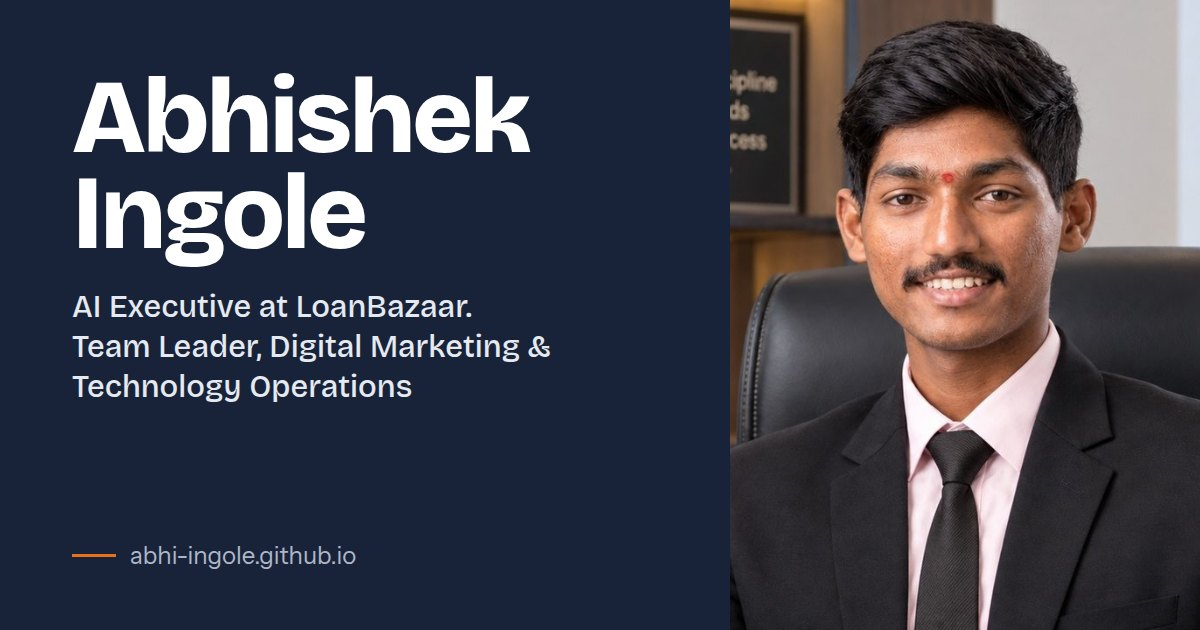
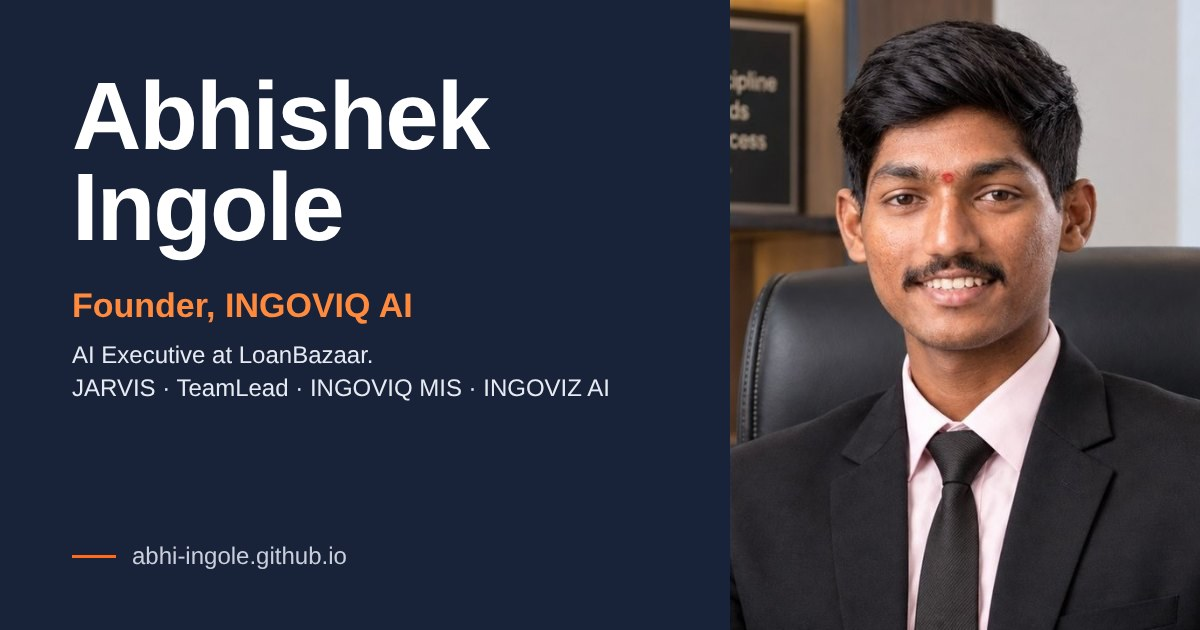
Founder of INGOVIQ AI: TeamLead product, company section with mission, स्वप्नातला कवी book section, updated titles, share image and structured data
Claude-Session: https://claude.ai/code/session_01RaJcPgbsKkPXd4THv1C4LU

diff --git a/index.html b/index.html
@@ -3,26 +3,26 @@
 <head>
 <meta charset="utf-8">
 <meta name="viewport" content="width=device-width, initial-scale=1">
-<title>Abhishek Ingole – AI Executive · Data &amp; BI | LoanBazaar, Mumbai</title>
-<meta name="description" content="Abhishek Ingole is an AI Executive (Data & BI) at LoanBazaar, Mumbai. He turns business data into decisions with Excel, SQL, Power BI and Python, and builds INGOVIZ AI, Smart MIS and JARVIS by INGOVIQ AI.">
+<title>Abhishek Ingole – Founder, INGOVIQ AI · AI Executive, Data &amp; BI | Mumbai</title>
+<meta name="description" content="Abhishek Ingole is the founder of INGOVIQ AI and an AI Executive (Data & BI) at LoanBazaar, Mumbai. He turns business data into decisions and builds JARVIS, TeamLead, INGOVIQ MIS and INGOVIZ AI.">
 <meta name="author" content="Abhishek Ingole">
 <link rel="canonical" href="https://abhi-ingole.github.io/">
 <meta name="robots" content="index, follow, max-image-preview:large">
 <meta name="google-site-verification" content="E_JPNv1pvanh8rm4-psqdiZxdUMXsIJe8ol7lKGQWh4">
 
 <meta property="og:type" content="profile">
-<meta property="og:title" content="Abhishek Ingole – AI Executive · Data & BI">
-<meta property="og:description" content="Business data to decisions with Excel, SQL, Power BI and Python. Builder of INGOVIZ AI, Smart MIS and JARVIS by INGOVIQ AI. AI Executive at LoanBazaar, Mumbai.">
+<meta property="og:title" content="Abhishek Ingole – Founder, INGOVIQ AI · AI Executive, Data & BI">
+<meta property="og:description" content="Founder of INGOVIQ AI: JARVIS, TeamLead, INGOVIQ MIS and INGOVIZ AI. AI Executive (Data & BI) at LoanBazaar, Mumbai, and author of the Marathi poetry book स्वप्नातला कवी.">
 <meta property="og:url" content="https://abhi-ingole.github.io/">
 <meta property="og:image" content="https://abhi-ingole.github.io/og-image.jpg">
 <meta property="og:image:width" content="1200">
 <meta property="og:image:height" content="630">
-<meta property="og:image:alt" content="Abhishek Ingole, AI Executive at LoanBazaar">
+<meta property="og:image:alt" content="Abhishek Ingole, Founder of INGOVIQ AI">
 <meta property="profile:first_name" content="Abhishek">
 <meta property="profile:last_name" content="Ingole">
 <meta name="twitter:card" content="summary_large_image">
-<meta name="twitter:title" content="Abhishek Ingole – AI Executive · Data & BI">
-<meta name="twitter:description" content="Business data to decisions with Excel, SQL, Power BI and Python. Builder of INGOVIZ AI, Smart MIS and JARVIS by INGOVIQ AI.">
+<meta name="twitter:title" content="Abhishek Ingole – Founder, INGOVIQ AI · AI Executive, Data & BI">
+<meta name="twitter:description" content="Founder of INGOVIQ AI: JARVIS, TeamLead, INGOVIQ MIS and INGOVIZ AI. Data In. Decisions Out.">
 <meta name="twitter:image" content="https://abhi-ingole.github.io/og-image.jpg">
 <link rel="icon" type="image/png" href="favicon.png">
 <link rel="apple-touch-icon" href="apple-touch-icon.png">
@@ -33,8 +33,8 @@
   "@context": "https://schema.org",
   "@type": "ProfilePage",
   "url": "https://abhi-ingole.github.io/",
-  "name": "Abhishek Ingole – AI Executive · Data & BI",
-  "dateModified": "2026-11-19",
+  "name": "Abhishek Ingole – Founder, INGOVIQ AI · AI Executive, Data & BI",
+  "dateModified": "2026-11-21",
   "mainEntity": {
     "@type": "Person",
     "@id": "https://abhi-ingole.github.io/#abhishek-ingole",
@@ -44,15 +44,17 @@
     "url": "https://abhi-ingole.github.io/",
     "image": "https://abhi-ingole.github.io/abhishek-ingole.jpg",
     "email": "mailto:abhishekingole81@gmail.com",
-    "jobTitle": "AI Executive · Data & BI",
-    "description": "AI Executive (Data & BI) at LoanBazaar and Team Leader of the Digital Marketing & Technology Operations team. Turns business data into decisions with Excel, SQL, Power BI and Python; builds INGOVIZ AI, Smart MIS and JARVIS by INGOVIQ AI.",
+    "jobTitle": ["Founder, INGOVIQ AI", "AI Executive · Data & BI"],
+    "description": "AI Executive (Data & BI) at LoanBazaar and Team Leader of the Digital Marketing & Technology Operations team. Turns business data into decisions with Excel, SQL, Power BI and Python; founder of INGOVIQ AI, which builds JARVIS, TeamLead, INGOVIQ MIS and INGOVIZ AI. Author of the Marathi poetry book स्वप्नातला कवी.",
     "worksFor": {
       "@type": "Organization",
       "name": "LoanBazaar",
       "legalName": "Secure Distribution Venture Pvt. Ltd.",
       "url": "https://loanbazaaronline.com"
     },
+    "founder": { "@type": "Organization", "@id": "https://ingoviq.vercel.app/#org", "name": "INGOVIQ AI", "url": "https://ingoviq.vercel.app/", "email": "ingoviqai@gmail.com", "slogan": "Data In. Decisions Out." },
     "hasOccupation": [
+      { "@type": "Occupation", "name": "Founder, INGOVIQ AI" },
       { "@type": "Occupation", "name": "AI Executive", "occupationLocation": { "@type": "City", "name": "Mumbai" } },
       { "@type": "Occupation", "name": "Team Leader, Digital Marketing & Technology Operations" }
     ],
@@ -63,10 +65,34 @@
     "knowsAbout": ["Business intelligence", "Data analysis", "Excel", "SQL", "MySQL", "Power BI", "DAX", "Power Query", "Python", "MIS reporting", "Credit analysis", "AI automation", "n8n", "Workflow automation", "Marketing automation", "Dashboards", "Android development", "WhatsApp marketing", "Email marketing", "Web development", "Software testing"],
     "sameAs": [
       "https://www.linkedin.com/in/abhishek-ingole-90b2913a8",
-      "https://github.com/Abhi-ingole"
+      "https://github.com/Abhi-ingole",
+      "https://ingoviq.vercel.app/"
     ]
   },
   "hasPart": [
+    {
+      "@type": "SoftwareApplication",
+      "name": "TeamLead",
+      "alternateName": "TeamLead by INGOVIQ",
+      "brand": { "@type": "Brand", "name": "INGOVIQ AI" },
+      "applicationCategory": "BusinessApplication",
+      "operatingSystem": "Web browser",
+      "url": "https://teamlead-ingoviq.netlify.app/",
+      "image": "https://abhi-ingole.github.io/images/teamlead-home.webp",
+      "description": "AI team leader for small sales, marketing and outreach teams: plans each person's day at 9:30, checks the real work against the lead list, and scores the day at 7 PM with feedback and alerts.",
+      "author": { "@id": "https://abhi-ingole.github.io/#abhishek-ingole" }
+    },
+    {
+      "@type": "Book",
+      "name": "स्वप्नातला कवी",
+      "alternateName": "Swapnatla Kavi",
+      "inLanguage": "mr",
+      "genre": "Poetry",
+      "author": { "@id": "https://abhi-ingole.github.io/#abhishek-ingole" },
+      "image": "https://abhi-ingole.github.io/images/swapnatla-kavi-cover.jpg",
+      "url": "https://swapnatala-kavi.netlify.app/",
+      "sameAs": "https://www.amazon.in/dp/B0HSJ8YRNN"
+    },
     {
       "@type": "SoftwareApplication",
       "name": "INGOVIZ AI",
@@ -300,31 +326,42 @@ footer{padding:36px 0 48px;color:var(--slate);font-size:14px;display:flex;justif
   section{margin-bottom:72px}
   .mail{font-size:20px}
 }
+.company{display:grid;grid-template-columns:minmax(0,1fr) minmax(0,1.1fr);gap:48px;align-items:center}
+.company .co-tag{font-family:var(--display);font-weight:700;font-size:20px;margin:-6px 0 16px;color:var(--signal)}
+.company .mission{margin:0 0 18px;padding:4px 0 4px 18px;border-left:4px solid var(--signal);font-style:italic;font-size:18px;line-height:1.6;max-width:52ch}
+.company p{color:var(--slate);max-width:56ch}
+.co-shot{display:block;text-decoration:none;transition:transform .2s}
+.co-shot:hover{transform:translateY(-4px)}
+.book{display:grid;grid-template-columns:160px minmax(0,1fr);gap:36px;align-items:center;background:var(--paper);border:1px solid var(--line);border-radius:24px;padding:36px}
+.book .cover img{width:160px;height:auto;display:block;border-radius:4px 10px 10px 4px;box-shadow:0 14px 30px rgba(0,0,0,.2)}
+.book p{color:var(--slate);max-width:56ch}
+@media (max-width:820px){.company{grid-template-columns:minmax(0,1fr)}.book{grid-template-columns:minmax(0,1fr);padding:26px}.book .cover img{width:130px}}
 </style>
 </head>
 <body>
 <div class="wrap">
   <header class="top">
     <b>Abhishek Ingole</b>
-    <nav aria-label="Sections"><a href="#products">Products</a><a href="#data-bi">Data &amp; BI</a><a href="#about">About</a><a href="#work">Work</a><a href="#experience">Experience</a><a href="#recognition">Recognition</a><a href="#contact">Contact</a></nav>
+    <nav aria-label="Sections"><a href="#products">Products</a><a href="#ingoviq">INGOVIQ AI</a><a href="#data-bi">Data &amp; BI</a><a href="#about">About</a><a href="#work">Work</a><a href="#experience">Experience</a><a href="#recognition">Recognition</a><a href="#book">Book</a><a href="#contact">Contact</a></nav>
   </header>
 
   <main>
     <div class="hero">
       <div>
-        <div class="status"><i aria-hidden="true"></i>Working at LoanBazaar, Mumbai</div>
+        <div class="status"><i aria-hidden="true"></i>Founder of INGOVIQ AI · Working at LoanBazaar, Mumbai</div>
         <h1>Abhishek Ingole</h1>
-        <p class="role"><strong>AI Executive · Data &amp; BI</strong> at <a href="https://loanbazaaronline.com" target="_blank" rel="noopener">LoanBazaar</a>, and Team Leader, Digital Marketing &amp; Technology Operations</p>
-        <p class="lede">I turn business data into decisions with Excel, SQL, Power BI and Python. I built <a href="#products">INGOVIZ AI, Smart MIS and JARVIS</a> under my brand INGOVIQ AI, and I run the automation behind LoanBazaar’s marketing.</p>
+        <p class="role"><strong>Founder, <a href="https://ingoviq.vercel.app/" target="_blank" rel="noopener">INGOVIQ AI</a></strong> · <strong>AI Executive · Data &amp; BI</strong> at <a href="https://loanbazaaronline.com" target="_blank" rel="noopener">LoanBazaar</a>, and Team Leader, Digital Marketing &amp; Technology Operations</p>
+        <p class="lede">I turn business data into decisions with Excel, SQL, Power BI and Python. I founded <a href="#ingoviq">INGOVIQ AI</a> and built its products, <a href="#products">JARVIS, TeamLead, INGOVIQ MIS and INGOVIZ AI</a>, and I run the automation behind LoanBazaar’s marketing.</p>
         <div class="links">
           <a class="btn solid" href="#products"><svg viewBox="0 0 24 24" aria-hidden="true"><path d="M3 3v18h18"/><path d="m7 15 4-4 3 3 5-6"/></svg>See my products</a>
+          <a class="btn" href="https://ingoviq.vercel.app/" target="_blank" rel="noopener"><svg viewBox="0 0 24 24" aria-hidden="true"><path d="M14 4h6v6M20 4l-9 9M18 14v5a1 1 0 0 1-1 1H5a1 1 0 0 1-1-1V7a1 1 0 0 1 1-1h5"/></svg>INGOVIQ AI</a>
           <a class="btn" href="mailto:abhishekingole81@gmail.com"><svg viewBox="0 0 24 24" aria-hidden="true"><rect x="3" y="5" width="18" height="14" rx="2"/><path d="m3 7 9 6 9-6"/></svg>Email me</a>
           <a class="btn" href="https://www.linkedin.com/in/abhishek-ingole-90b2913a8" target="_blank" rel="noopener me"><svg viewBox="0 0 24 24" aria-hidden="true"><rect x="3" y="3" width="18" height="18" rx="3"/><path d="M8 10v7M8 7v.01M12 17v-4a2 2 0 0 1 4 0v4M12 10v7"/></svg>LinkedIn</a>
           <a class="btn" href="https://github.com/Abhi-ingole" target="_blank" rel="noopener me"><svg viewBox="0 0 24 24" aria-hidden="true"><path d="M9 19c-4 1.3-4-2-6-2.5M15 21v-3.5a3 3 0 0 0-.9-2.4c3-.3 6-1.5 6-6.6a5.2 5.2 0 0 0-1.4-3.6 4.8 4.8 0 0 0-.1-3.6s-1.1-.3-3.6 1.4a12.4 12.4 0 0 0-6.4 0C6.1 1 5 1.3 5 1.3a4.8 4.8 0 0 0-.1 3.6A5.2 5.2 0 0 0 3.5 8.5c0 5.1 3 6.3 6 6.6a3 3 0 0 0-.9 2.4V21"/></svg>GitHub</a>
         </div>
       </div>
       <figure class="portrait">
-        <img src="abhishek-ingole-portrait.jpg" width="800" height="1000" alt="Abhishek Ingole, AI Executive at LoanBazaar, at his desk">
+        <img src="abhishek-ingole-portrait.jpg" width="800" height="1000" alt="Abhishek Ingole, Founder of INGOVIQ AI and AI Executive at LoanBazaar, at his desk">
         <figcaption><b>Abhishek Ingole</b>Mira Road, Mumbai</figcaption>
       </figure>
     </div>
@@ -337,13 +374,14 @@ footer{padding:36px 0 48px;color:var(--slate);font-size:14px;display:flex;justif
         <li><small>Learned by shipping</small><strong>Internships</strong><span>Web development at Oasis Infobyte, software testing at CDPL</span></li>
         <li class="now"><small>Now</small><strong>AI Executive</strong><span>LoanBazaar, Secure Distribution Venture Pvt. Ltd.</span></li>
         <li class="now"><small>Now</small><strong>Team Leader</strong><span>Digital Marketing &amp; Technology Operations</span></li>
+        <li class="now"><small>Now</small><strong>Founder, INGOVIQ AI</strong><span>JARVIS, TeamLead, INGOVIQ MIS and INGOVIZ AI</span></li>
       </ol><span class="pulse" aria-hidden="true"></span></div>
     </div>
 
     <section id="products" aria-labelledby="products-h">
       <span class="kicker">Products by INGOVIQ AI</span>
-      <h2 class="sec" id="products-h">Three products that turn business data into decisions</h2>
-      <p class="intro">INGOVIQ AI is my product brand. INGOVIZ AI and Smart MIS run entirely in the browser: files are read on your own device and nothing is uploaded. JARVIS is a full SaaS with secure accounts. Screenshots use demo data.</p>
+      <h2 class="sec" id="products-h">Four products that turn business data into decisions</h2>
+      <p class="intro">INGOVIQ AI is my product brand. INGOVIZ AI and Smart MIS run entirely in the browser: files are read on your own device and nothing is uploaded. JARVIS is a full SaaS with secure accounts, and TeamLead runs a small team’s day. Screenshots use demo data. All of them are on the <a href="https://ingoviq.vercel.app/" target="_blank" rel="noopener">INGOVIQ AI website</a>.</p>
       <div class="prods">
 
         <article class="prod" aria-labelledby="p1-h">
@@ -396,7 +434,7 @@ footer{padding:36px 0 48px;color:var(--slate);font-size:14px;display:flex;justif
           </div>
           <div class="prod-copy">
             <div class="brand"><b>INGOVIQ AI</b>MIS report builder</div>
-            <h3 id="p2-h">Smart MIS <small>by INGOVIQ AI</small></h3>
+            <h3 id="p2-h">INGOVIQ MIS <small>Smart MIS</small></h3>
             <p class="tag">Any spreadsheet in, a finished MIS report out</p>
             <p>Upload Excel, CSV, JSON or PDF tables. Smart MIS works out what each column is, checks data quality and builds the dashboard and report a manager would otherwise make by hand every month.</p>
             <ul class="ticks">
@@ -450,8 +488,60 @@ footer{padding:36px 0 48px;color:var(--slate);font-size:14px;display:flex;justif
             </div>
           </div>
         </article>
-
+        <article class="prod flip" aria-labelledby="p4-h">
+          <div class="prod-media" data-gallery>
+            <div class="frame">
+              <div class="bar"><i></i><i></i><i></i><span>teamlead-ingoviq.netlify.app</span></div>
+              <img data-main src="images/teamlead-home.webp" width="1440" height="900" alt="TeamLead home page: Your team’s AI team leader, with a timeline of one working day from the 9:30 plan to the 7 PM score" loading="lazy" decoding="async">
+            </div>
+            <div class="thumbs">
+              <button type="button" aria-pressed="true" data-src="images/teamlead-home.webp" data-alt="TeamLead home page: Your team’s AI team leader, with a timeline of one working day from the 9:30 plan to the 7 PM score"><img src="images/teamlead-home.webp" alt="" loading="lazy"><span>A working day</span></button>
+              <button type="button" aria-pressed="false" data-src="images/teamlead-features.webp" data-alt="TeamLead features: AI daily plans, fair lead split, follow-ups on time, checks against real data, a fair daily score and alerts"><img src="images/teamlead-features.webp" alt="" loading="lazy"><span>Features</span></button>
+              <button type="button" aria-pressed="false" data-src="images/teamlead-pricing.webp" data-alt="TeamLead plans: free pilot, team plan and custom setup"><img src="images/teamlead-pricing.webp" alt="" loading="lazy"><span>Plans</span></button>
+            </div>
+          </div>
+          <div class="prod-copy">
+            <div class="brand"><b>INGOVIQ AI</b>SaaS · New</div>
+            <h3 id="p4-h">TeamLead <small>by INGOVIQ AI</small></h3>
+            <p class="tag">An AI team leader for small teams</p>
+            <p>TeamLead plans every person’s day at 9:30, checks the real work as it happens and scores the day at 7 PM. Each person gets clear feedback; the manager gets one summary, and an alert when someone needs help.</p>
+            <ul class="ticks">
+              <li>AI daily plans with times and targets for each person’s role</li>
+              <li>New leads shared out fairly; follow-ups come back on time</li>
+              <li>Work checked against the real lead list, not typed-in updates</li>
+              <li>A daily score out of 100 with two lines of feedback for each person</li>
+              <li>Skips weekends, alternate Saturdays and holidays</li>
+            </ul>
+            <div class="nums">
+              <div><b>9:30</b><span>daily plan</span></div>
+              <div><b>7 PM</b><span>daily score</span></div>
+              <div><b>2–25</b><span>people per team</span></div>
+            </div>
+            <ul class="chips" aria-label="Built with"><li>n8n</li><li>Groq</li><li>Google Sheets</li><li>Gmail</li><li>Netlify</li></ul>
+            <div class="links">
+              <a class="btn solid" href="https://teamlead-ingoviq.netlify.app/" target="_blank" rel="noopener"><svg viewBox="0 0 24 24" aria-hidden="true"><path d="M14 4h6v6M20 4l-9 9M18 14v5a1 1 0 0 1-1 1H5a1 1 0 0 1-1-1V7a1 1 0 0 1 1-1h5"/></svg>Open website</a>
+              <a class="btn" href="https://teamlead-ingoviq.netlify.app/#demo" target="_blank" rel="noopener">Book a demo</a>
+            </div>
+          </div>
+        </article>
       </div>
+    </section>
+    <section id="ingoviq" class="company" aria-labelledby="ingoviq-h">
+      <div class="co-copy">
+        <span class="kicker">The company</span>
+        <h2 class="sec" id="ingoviq-h">INGOVIQ AI</h2>
+        <p class="co-tag">Data In. Decisions Out.</p>
+        <blockquote class="mission">“To make artificial intelligence practical, accessible, and impactful—building intelligent products that solve real-world challenges and empower businesses to achieve more.”</blockquote>
+        <p>INGOVIQ AI is the company I founded for my products and client work. Besides the products, it builds custom n8n automations, websites, dashboards and MIS reports for small businesses. Coming soon: <b>INGOVIQ Credit</b>, from a lead to a lender-ready credit file, and <b>INGOVIQ Flow</b>, ready-made automations for everyday work.</p>
+        <div class="links">
+          <a class="btn solid" href="https://ingoviq.vercel.app/" target="_blank" rel="noopener"><svg viewBox="0 0 24 24" aria-hidden="true"><path d="M14 4h6v6M20 4l-9 9M18 14v5a1 1 0 0 1-1 1H5a1 1 0 0 1-1-1V7a1 1 0 0 1 1-1h5"/></svg>Visit INGOVIQ AI</a>
+          <a class="btn" href="mailto:ingoviqai@gmail.com">ingoviqai@gmail.com</a>
+        </div>
+      </div>
+      <a class="co-shot" href="https://ingoviq.vercel.app/" target="_blank" rel="noopener" aria-label="Open the INGOVIQ AI website">
+        <div class="frame"><div class="bar"><i></i><i></i><i></i><span>ingoviq.vercel.app</span></div>
+        <img src="images/ingoviq-home.webp" width="1440" height="900" alt="INGOVIQ AI website home page: Data in. Decisions out., with the Qwiz mascot" loading="lazy" decoding="async"></div>
+      </a>
     </section>
 
     <section id="data-bi" aria-labelledby="data-h">
@@ -514,6 +604,7 @@ footer{padding:36px 0 48px;color:var(--slate);font-size:14px;display:flex;justif
       <div>
         <h2 class="sec" id="about-h">About</h2>
         <p>I’m an AI Executive at LoanBazaar, a Mumbai platform that helps Indian startups and SMEs raise non-dilutive debt capital. I lead the Digital Marketing &amp; Technology Operations team, where we run the company’s social media, WhatsApp marketing and email campaigns.</p>
+        <p>I also founded <a href="https://ingoviq.vercel.app/" target="_blank" rel="noopener">INGOVIQ AI</a>, where I build JARVIS, TeamLead, INGOVIQ MIS and INGOVIZ AI for small businesses and teams.</p>
         <p>Most of my work is turning repeated manual tasks into systems that run on their own, with a person approving the steps that need judgement. Outside LoanBazaar I run OM Enterprises, a paint contracting business, and build the software it runs on.</p>
       </div>
       <ul class="focus" aria-label="What I work on">
@@ -570,6 +661,7 @@ footer{padding:36px 0 48px;color:var(--slate);font-size:14px;display:flex;justif
       <div>
         <h3>Experience</h3>
         <ol>
+          <li><b>Founder, INGOVIQ AI</b><span>AI products (JARVIS, TeamLead, INGOVIQ MIS, INGOVIZ AI) and automation for small businesses</span></li>
           <li><b>AI Executive, LoanBazaar</b><span>Secure Distribution Venture Pvt. Ltd., Mumbai. Team Leader, Digital Marketing &amp; Technology Operations</span></li>
           <li><b>OM Enterprises</b><span>Paint contracting business. Runs operations and builds its software</span></li>
           <li><b>Software Testing Intern, CDPL</b><span>Manual testing of web apps: wrote and ran test cases, reported and tracked bugs</span></li>
@@ -597,10 +689,22 @@ footer{padding:36px 0 48px;color:var(--slate);font-size:14px;display:flex;justif
       </ul>
     </section>
 
+    <section id="book" class="book" aria-labelledby="book-h">
+      <a class="cover" href="https://www.amazon.in/dp/B0HSJ8YRNN" target="_blank" rel="noopener" aria-label="स्वप्नातला कवी on Amazon"><img src="images/swapnatla-kavi-cover.jpg" width="320" height="481" alt="Cover of स्वप्नातला कवी by अभिषेक इंगोले" loading="lazy"></a>
+      <div>
+        <span class="kicker">Author</span>
+        <h2 class="sec" id="book-h" lang="mr">स्वप्नातला कवी</h2>
+        <p>My Marathi poetry book, <i>Swapnatla Kavi</i>, available on Amazon.</p>
+        <div class="links">
+          <a class="btn solid" href="https://www.amazon.in/dp/B0HSJ8YRNN" target="_blank" rel="noopener">Buy on Amazon</a>
+          <a class="btn" href="https://swapnatala-kavi.netlify.app/" target="_blank" rel="noopener">About the book</a>
+        </div>
+      </div>
+    </section>
     <section id="contact" class="contact" aria-labelledby="contact-h">
       <div>
         <h2 class="sec" id="contact-h">Get in touch</h2>
-        <p>For work on data and BI, MIS reporting, dashboards or AI automation, email me or message me on LinkedIn.</p>
+        <p>For work on data and BI, MIS reporting, dashboards or AI automation, email me or message me on LinkedIn. For INGOVIQ AI products and projects, write to <a href="mailto:ingoviqai@gmail.com">ingoviqai@gmail.com</a>.</p>
       </div>
       <a class="mail" href="mailto:abhishekingole81@gmail.com">abhishekingole81@gmail.com</a>
     </section>
@@ -608,7 +712,7 @@ footer{padding:36px 0 48px;color:var(--slate);font-size:14px;display:flex;justif
 
   <footer>
     <span>© 2026 Abhishek Ingole</span>
-    <span><a href="https://www.linkedin.com/in/abhishek-ingole-90b2913a8" target="_blank" rel="noopener me">LinkedIn</a> &nbsp; <a href="https://github.com/Abhi-ingole" target="_blank" rel="noopener me">GitHub</a></span>
+    <span><a href="https://ingoviq.vercel.app/" target="_blank" rel="noopener">INGOVIQ AI</a> &nbsp; <a href="https://www.linkedin.com/in/abhishek-ingole-90b2913a8" target="_blank" rel="noopener me">LinkedIn</a> &nbsp; <a href="https://github.com/Abhi-ingole" target="_blank" rel="noopener me">GitHub</a></span>
   </footer>
 </div>
 <script>
